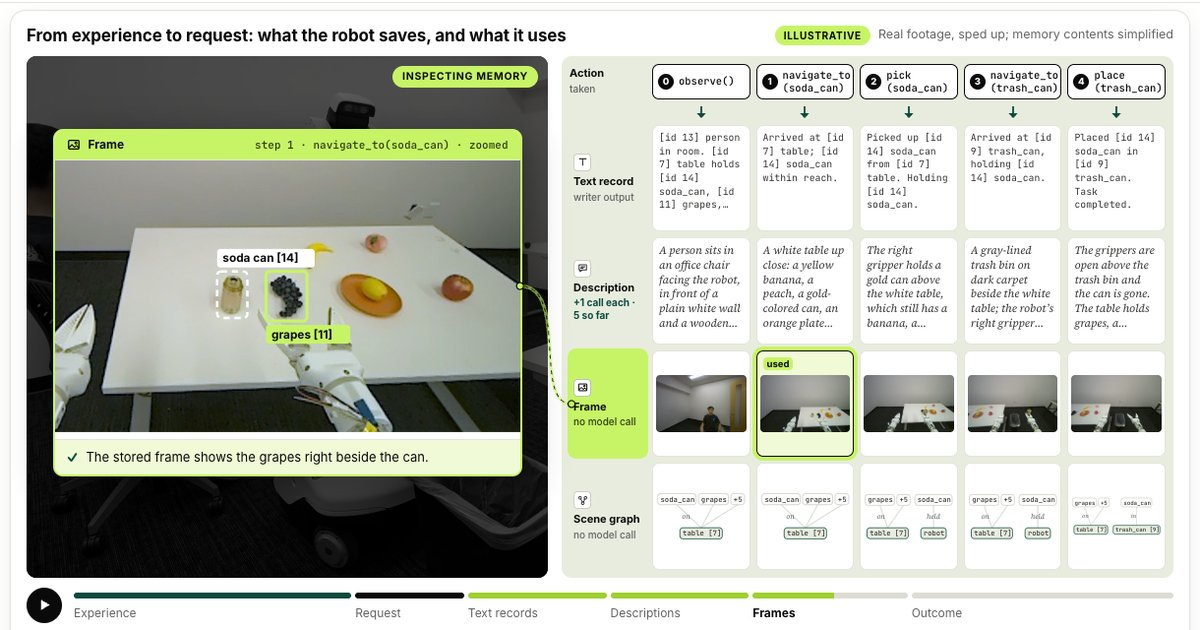
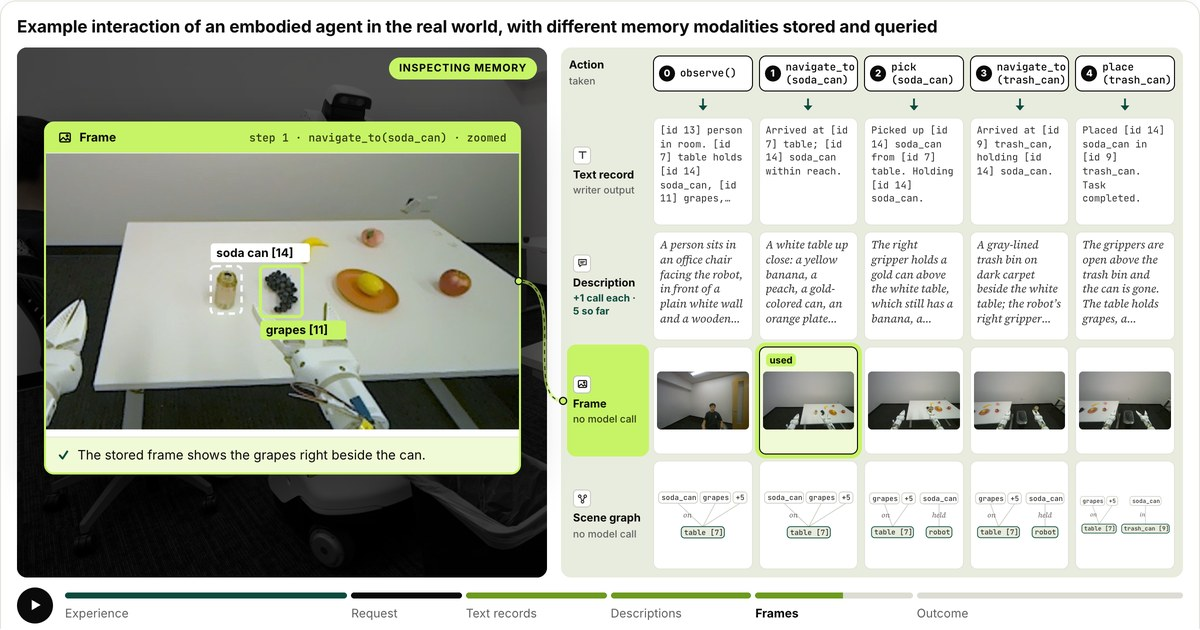
Update link preview image and use absolute preview URLs

diff --git a/index.html b/index.html
@@ -10,12 +10,17 @@
   <meta property="og:title" content="MeMoREval: What Should Embodied Agents Remember?">
   <meta property="og:description" content="A controlled benchmark for memory modality in embodied agents: 53 tasks in four simulated environments, measuring task success and the inference cost of writing and reading memory.">
   <meta property="og:type" content="website">
-  <!-- Social cards need absolute URLs: replace with https://<site>/media/og.jpg on deploy. -->
-  <meta property="og:image" content="media/og.jpg">
+  <meta property="og:site_name" content="MeMoREval">
+  <meta property="og:url" content="https://memoreval.github.io/">
+  <!-- Link previews need absolute URLs; bump ?v= when the image changes so apps fetch the new one. -->
+  <meta property="og:image" content="https://memoreval.github.io/media/og.jpg?v=2">
   <meta property="og:image:width" content="1200">
   <meta property="og:image:height" content="630">
-  <meta name="twitter:image" content="media/og.jpg">
+  <meta property="og:image:alt" content="The robot's memory during a real-world task: text records, descriptions, frames and scene graphs, with the stored frame showing the grapes beside the soda can.">
   <meta name="twitter:card" content="summary_large_image">
+  <meta name="twitter:title" content="MeMoREval: What Should Embodied Agents Remember?">
+  <meta name="twitter:image" content="https://memoreval.github.io/media/og.jpg?v=2">
+  <link rel="canonical" href="https://memoreval.github.io/">
   <link rel="preconnect" href="https://fonts.googleapis.com">
   <link rel="preconnect" href="https://fonts.gstatic.com" crossorigin>
   <link href="https://fonts.googleapis.com/css2?family=Inter:wght@400;500;600;700;800&family=JetBrains+Mono:wght@400;500&family=Source+Serif+4:ital,opsz,wght@0,8..60,400;0,8..60,600;1,8..60,400;1,8..60,500&display=swap" rel="stylesheet">
